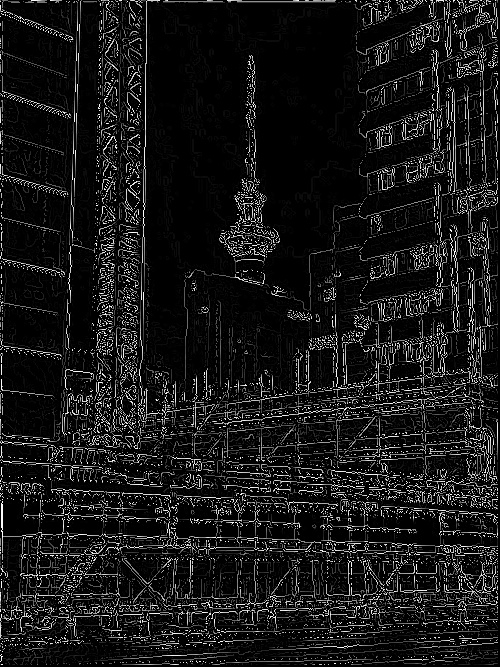
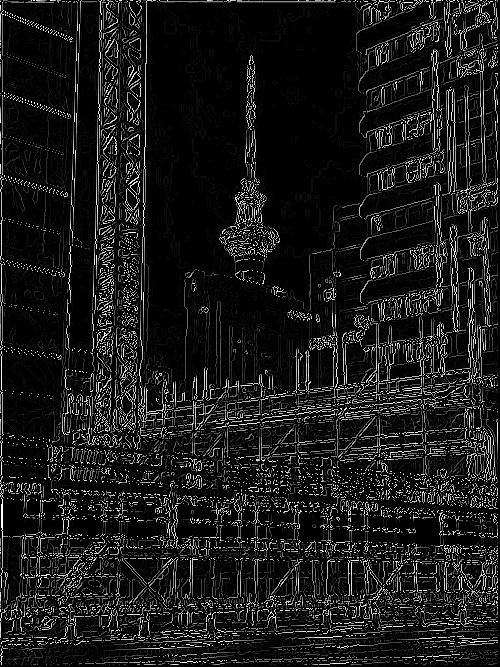
added 180

diff --git a/canny.py b/canny.py
@@ -73,7 +73,10 @@ def sobel(gray_img):
 				for kc in range(3):
 					hori += horizontal[kr][kc] * gray_img[i-kr][j-kc]
 					vert += vertical[kr][kc] * gray_img[i-kr][j-kc]
-			angles[i-1,j-1] = np.rad2deg(np.arctan2(vert,hori))
+			angle = np.rad2deg(np.arctan2(vert,hori))
+			if angle < 0:
+				angle += 180
+			angles[i-1,j-1] = angle
 			output[i-1,j-1] = np.sqrt(np.square(hori) + np.square(vert))
 
 	#cv2.imwrite('sobel.jpg',output)
